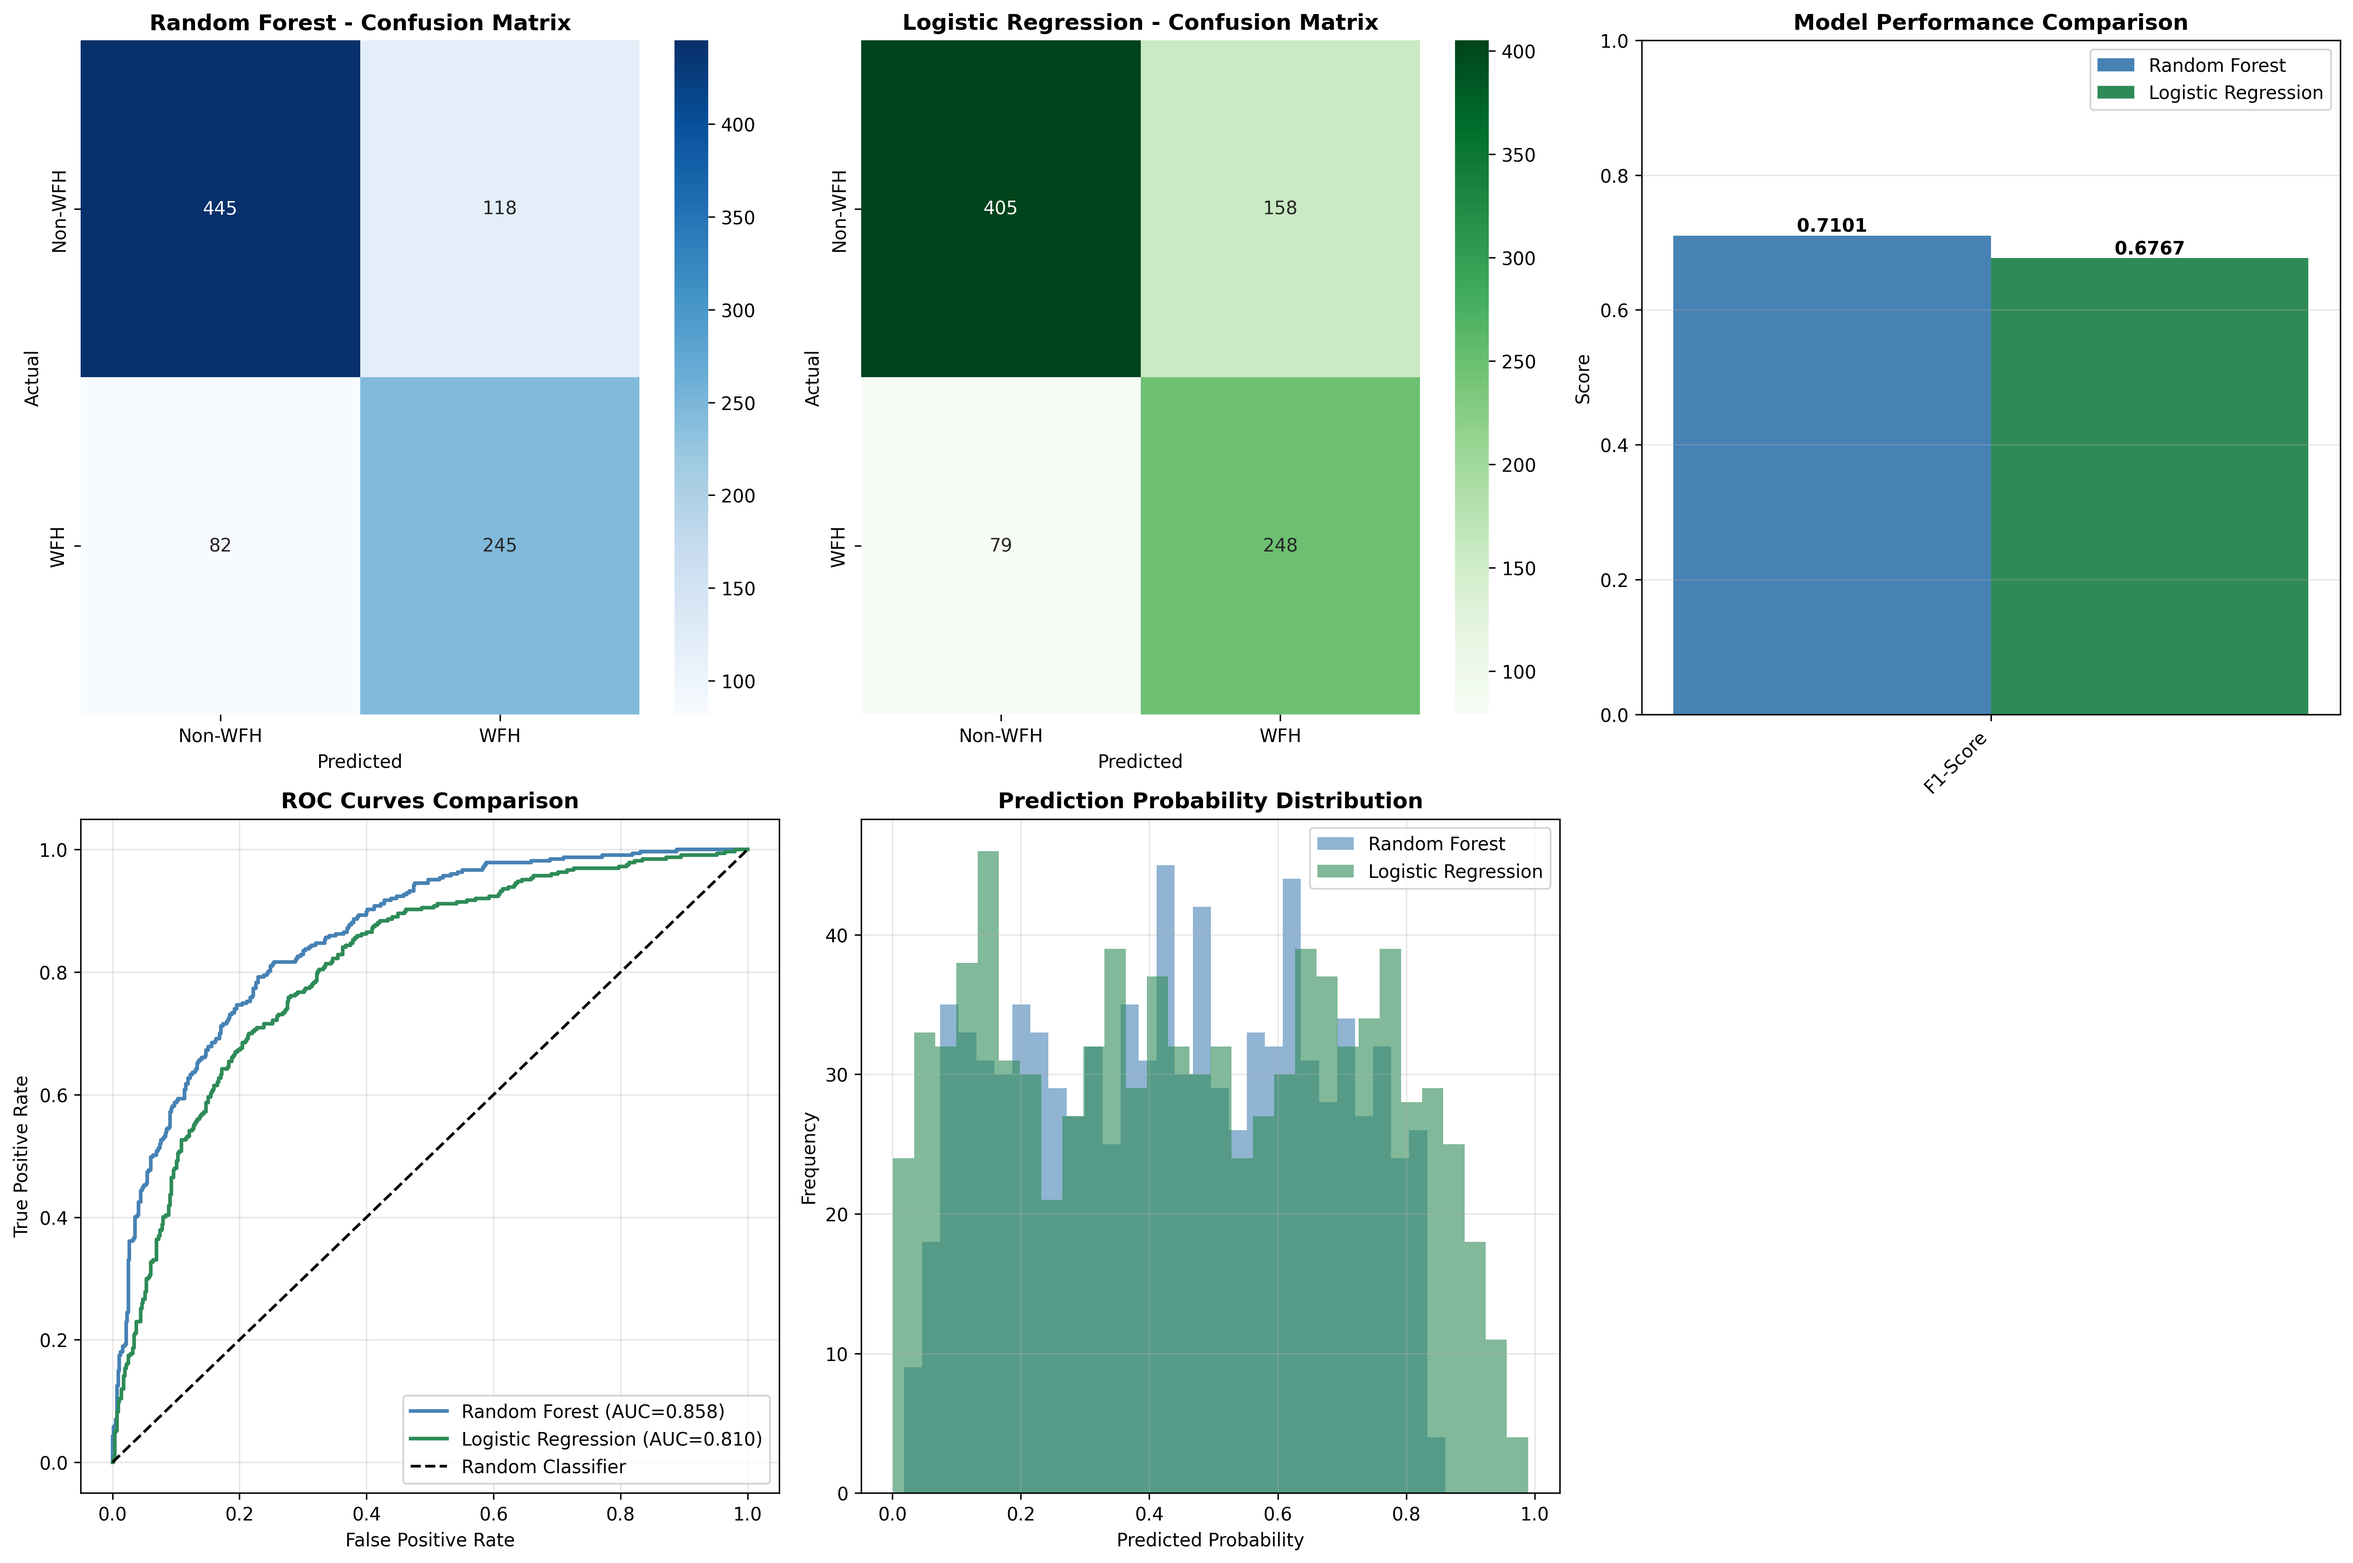
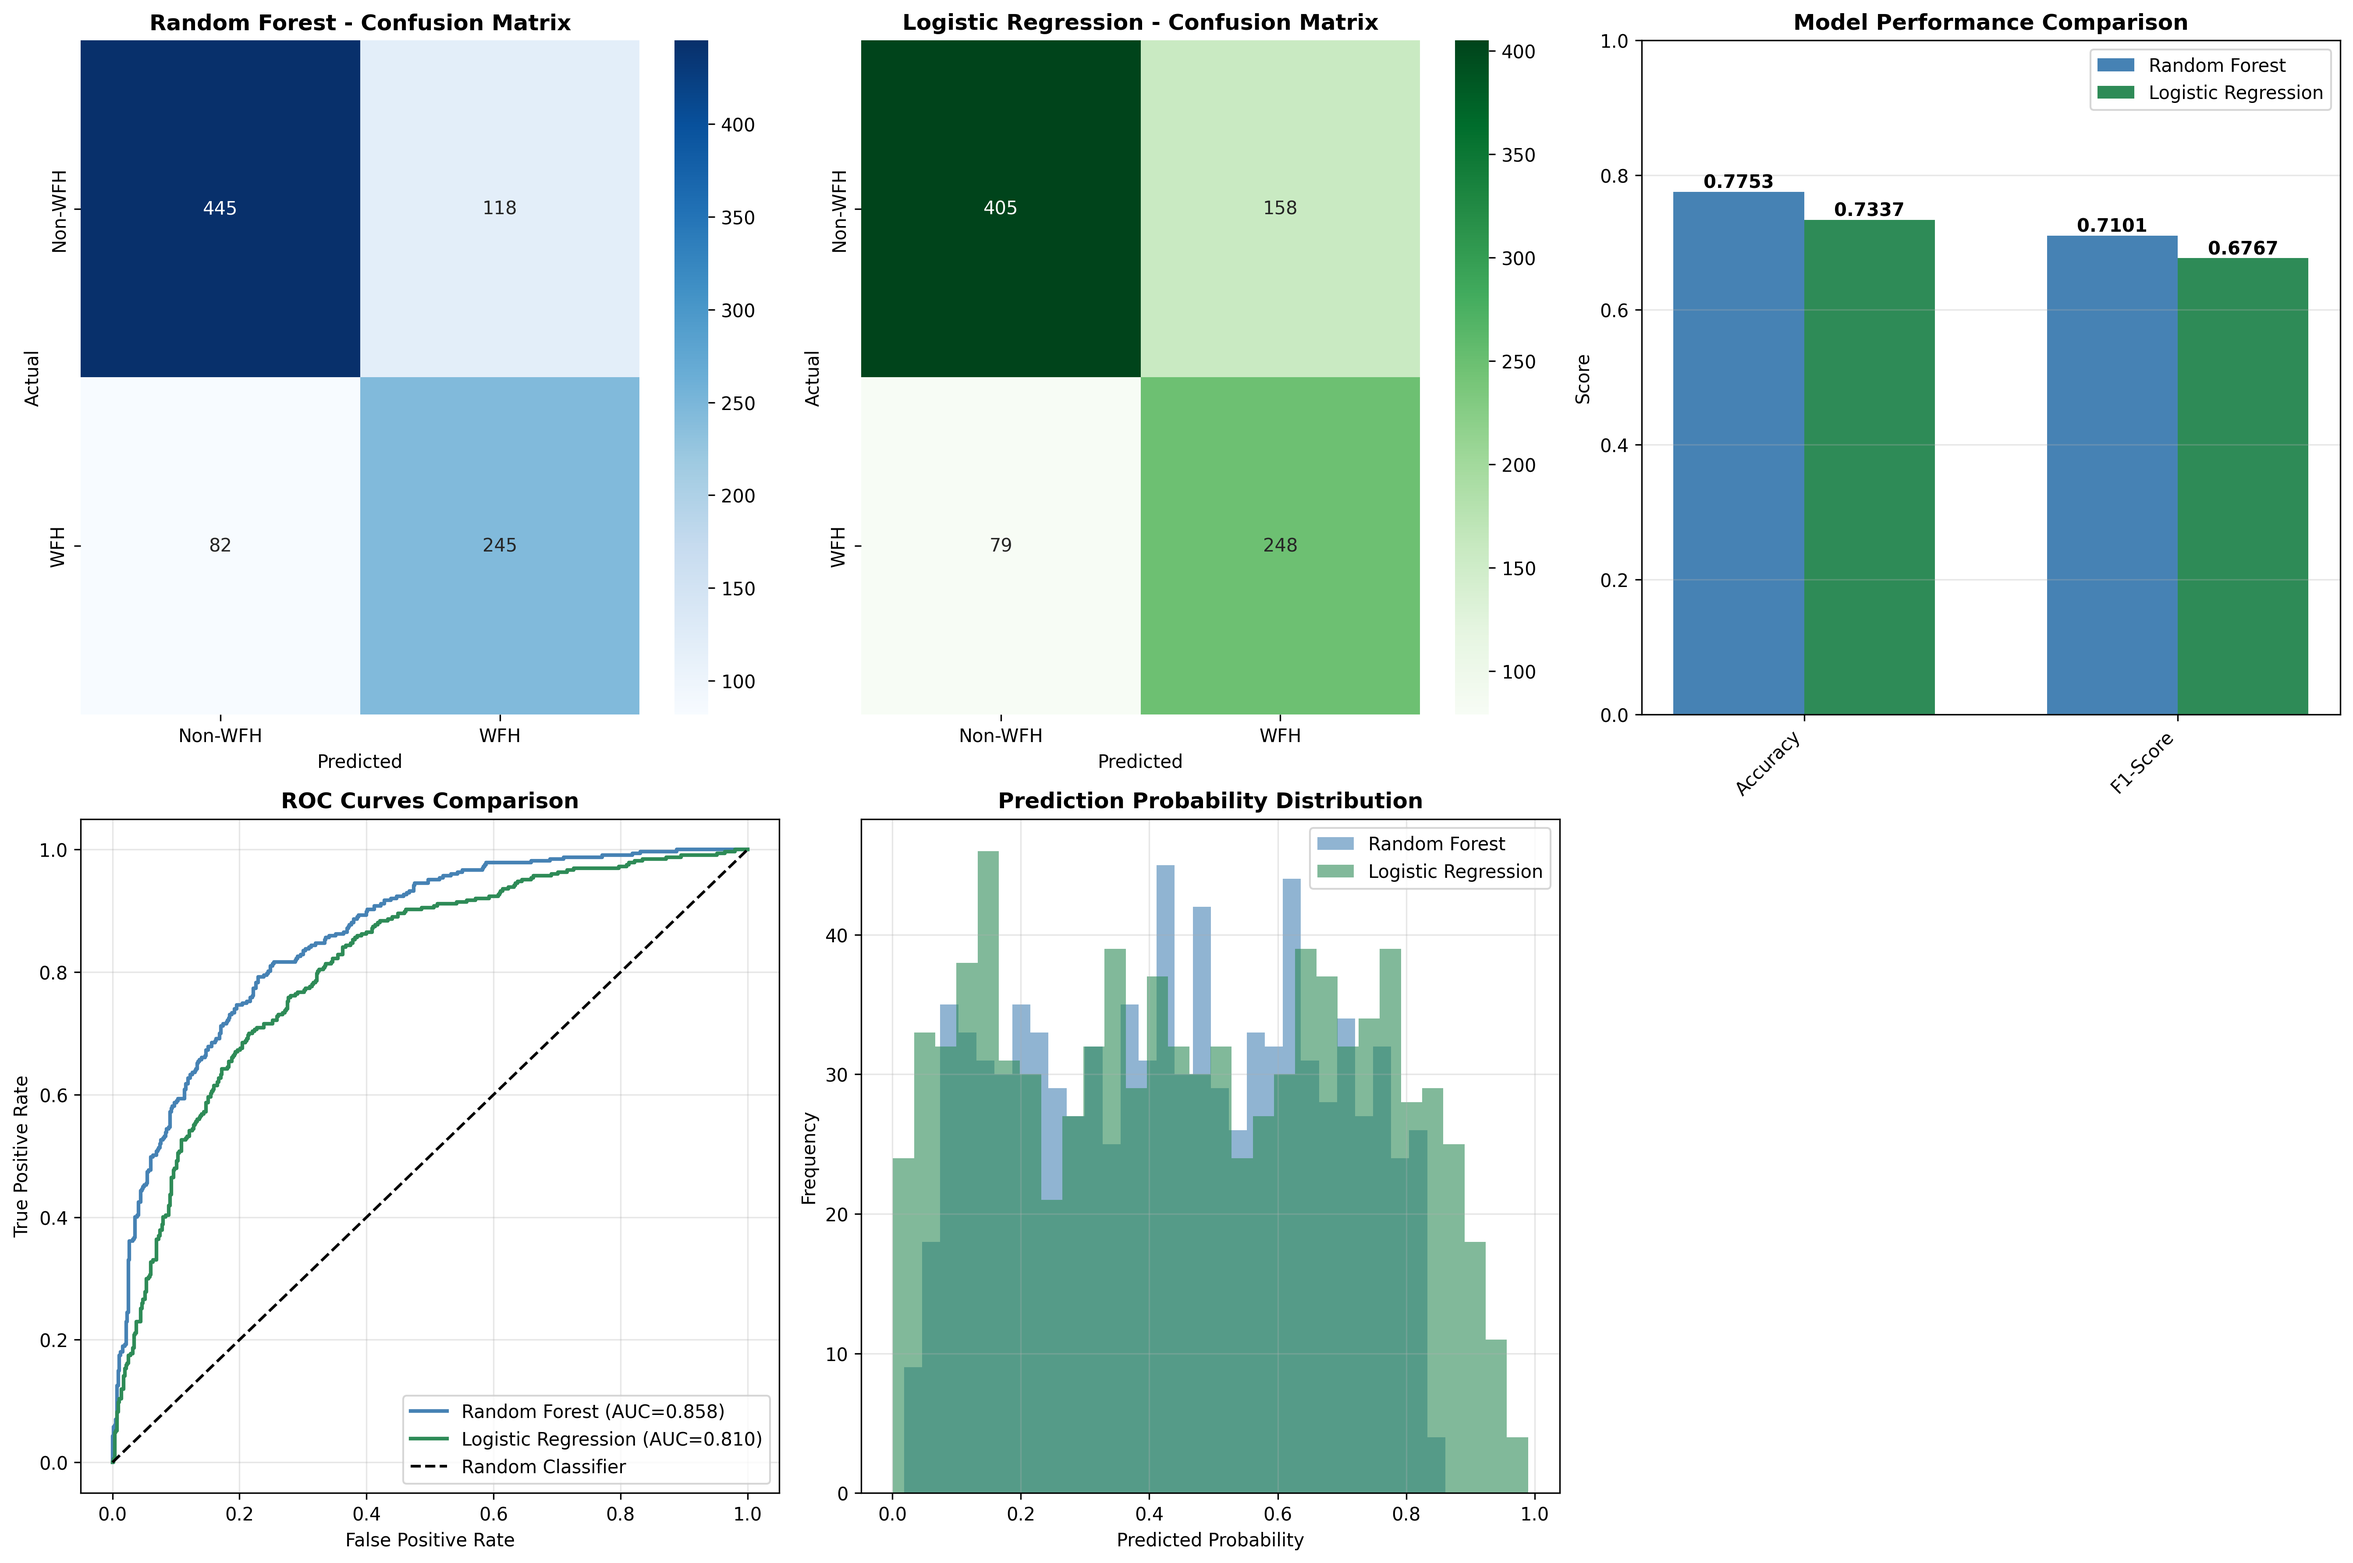
graph improvement

Changed region(s): [[0.6843, 0.0933, 0.9331, 0.4666]]

diff --git a/03_supervised_learning/scripts/visualization.py b/03_supervised_learning/scripts/visualization.py
@@ -61,13 +61,11 @@ def plot_results(results_rf, results_lr, y_test):
     
     # Metrics Comparison
     ax3 = plt.subplot(2, 3, 3)
-    metrics = ['F1-Score']
-    rf_scores = [results_rf['f1_score']]
-    lr_scores = [results_lr['f1_score']]
-
+    metrics = ['Accuracy', 'F1-Score']
+    rf_scores = [results_rf['accuracy'], results_rf['f1_score']]
+    lr_scores = [results_lr['accuracy'], results_lr['f1_score']]
     x = np.arange(len(metrics))
     width = 0.35
-
     bars1 = ax3.bar(x - width/2, rf_scores, width, label='Random Forest', color='steelblue')
     bars2 = ax3.bar(x + width/2, lr_scores, width, label='Logistic Regression', color='seagreen')
 
@@ -77,7 +75,6 @@ def plot_results(results_rf, results_lr, y_test):
         ax3.text(bar.get_x() + bar.get_width()/2., height,
                 f'{height:.4f}',  # Show 4 decimal places
                 ha='center', va='bottom', fontsize=10, fontweight='bold')
-
     for bar in bars2:
         height = bar.get_height()
         ax3.text(bar.get_x() + bar.get_width()/2., height,

diff --git a/03_supervised_learning/scripts/evaluation.py b/03_supervised_learning/scripts/evaluation.py
@@ -55,6 +55,7 @@ def evaluate_model(model, X_test, y_test, model_name):
     y_pred_proba = model.predict_proba(X_test)[:, 1]
     
     cm = confusion_matrix(y_test, y_pred)
+    accuracy = accuracy_score(y_test, y_pred) 
     f1 = f1_score(y_test, y_pred, zero_division=0)
     roc_auc = roc_auc_score(y_test, y_pred_proba)
    
@@ -75,6 +76,7 @@ def evaluate_model(model, X_test, y_test, model_name):
     return {
         'confusion_matrix': cm,
         'f1_score': f1,
+        'accuracy': accuracy,
         'roc_auc': roc_auc,
         'y_pred': y_pred,
         'y_pred_proba': y_pred_proba
